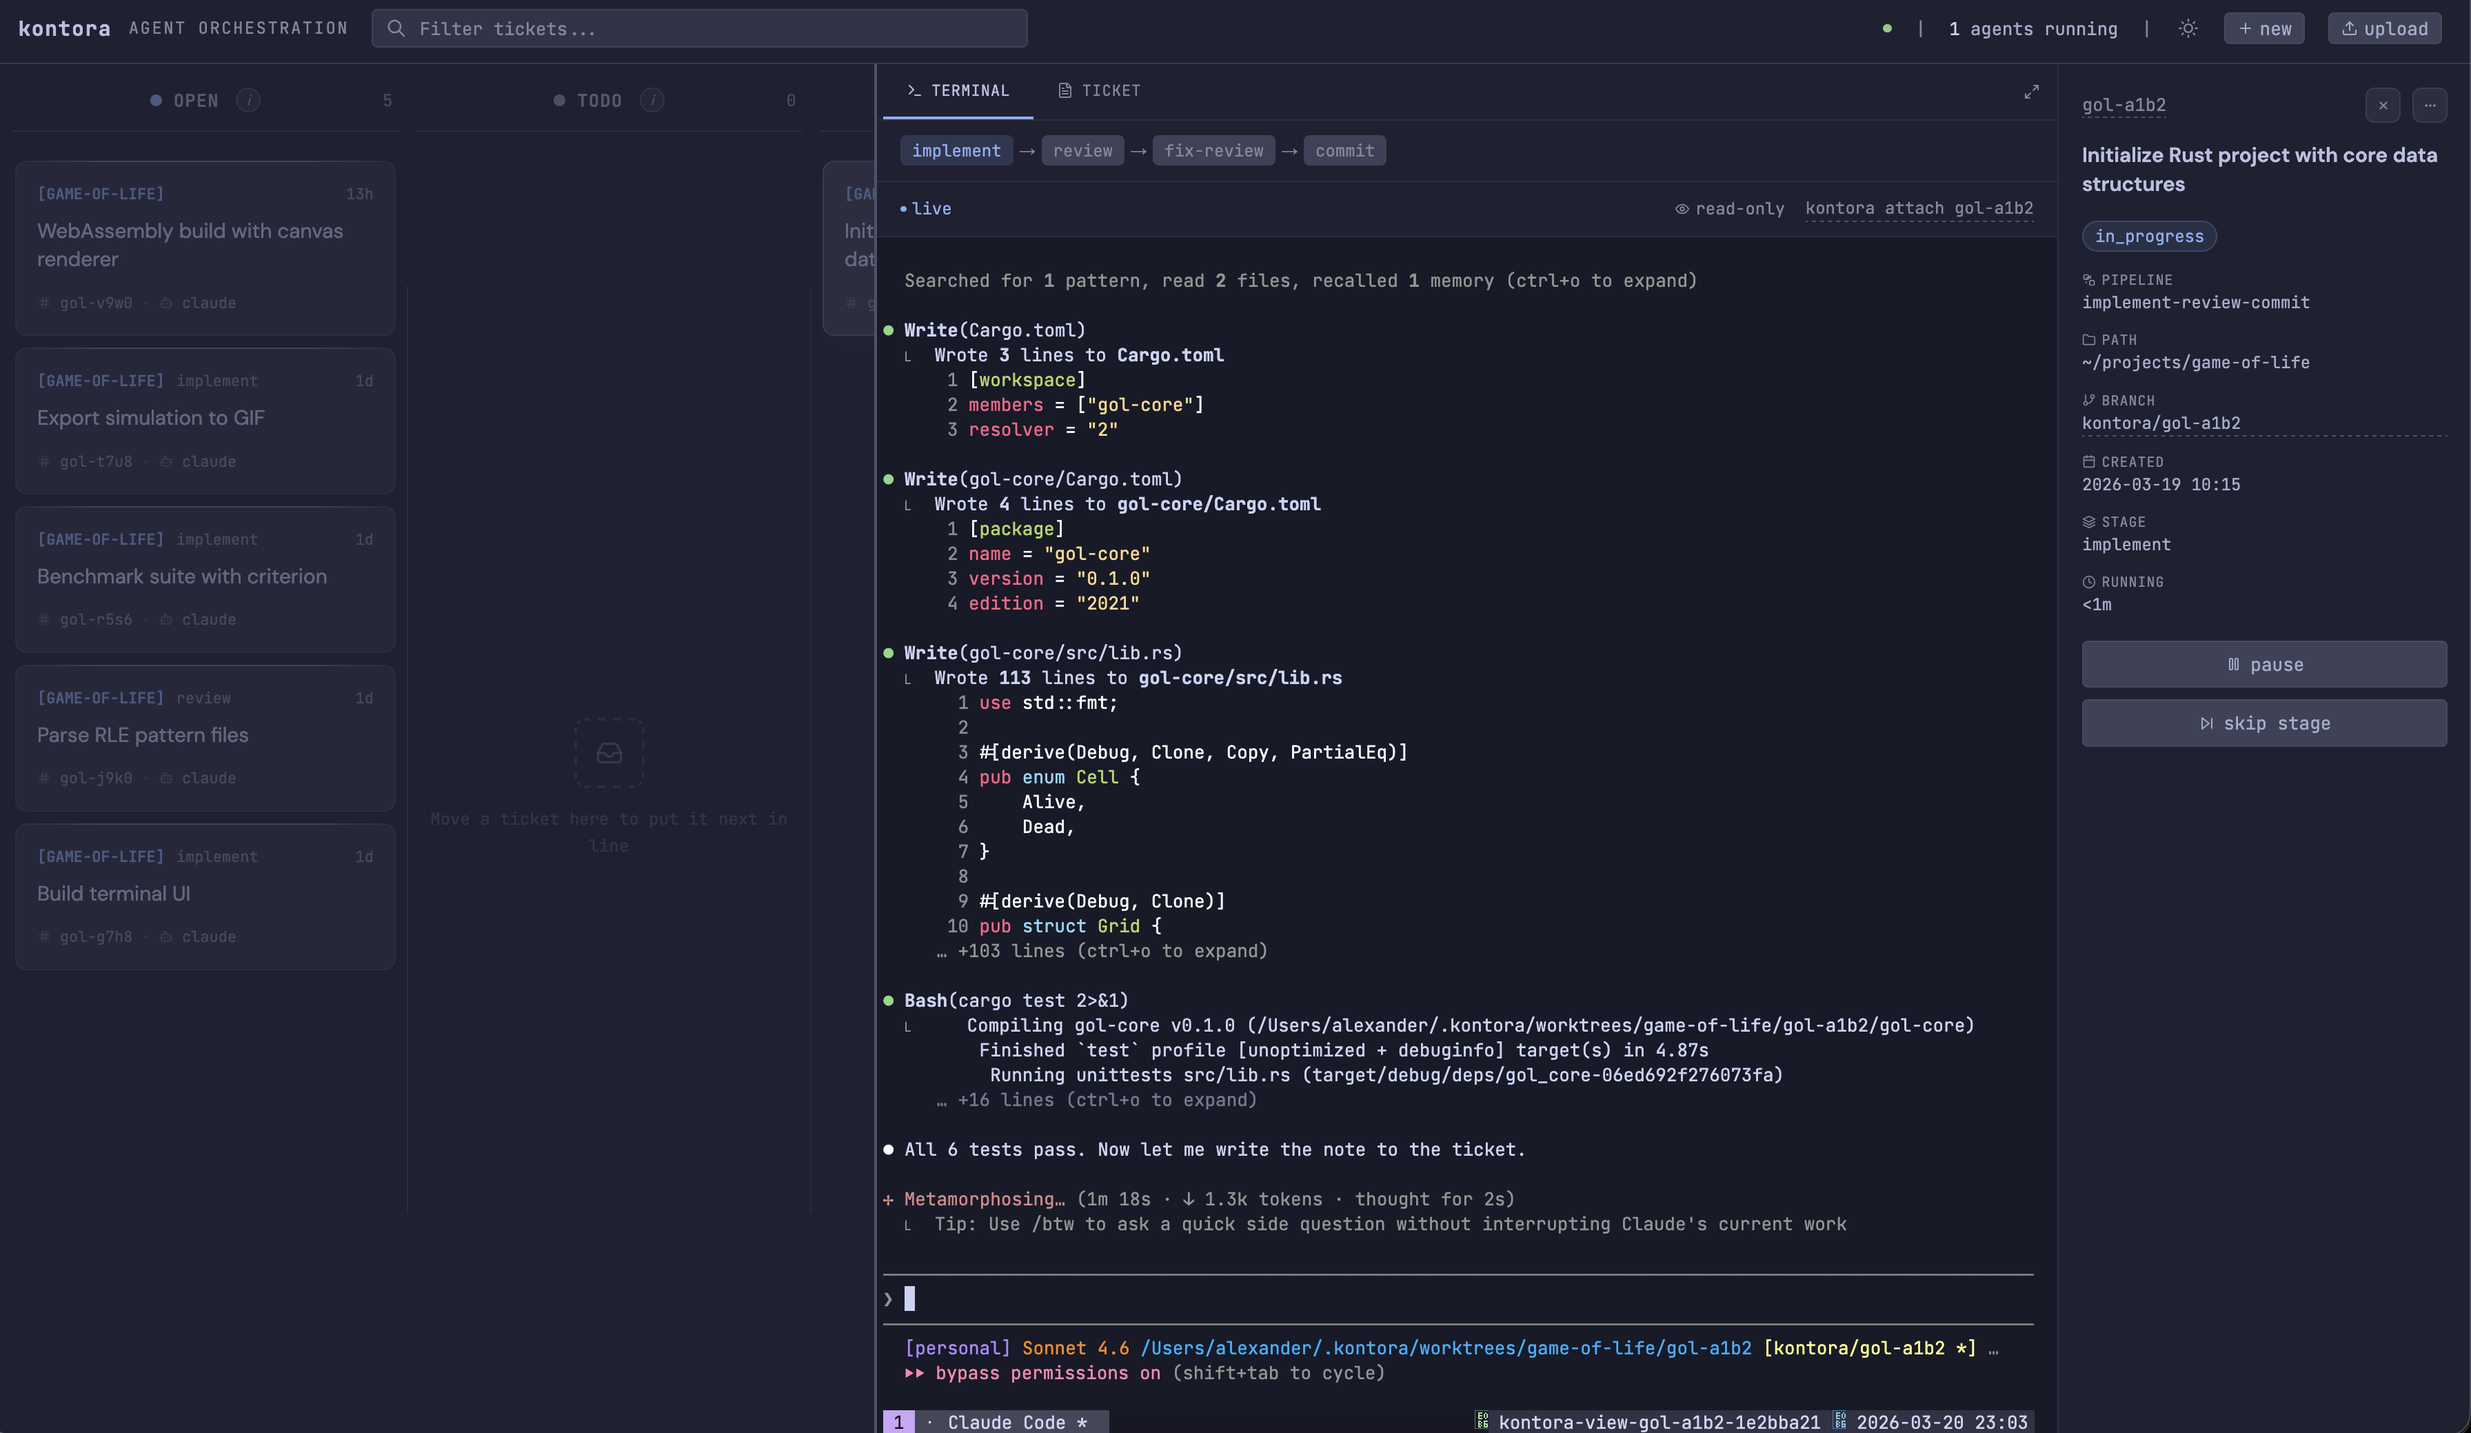
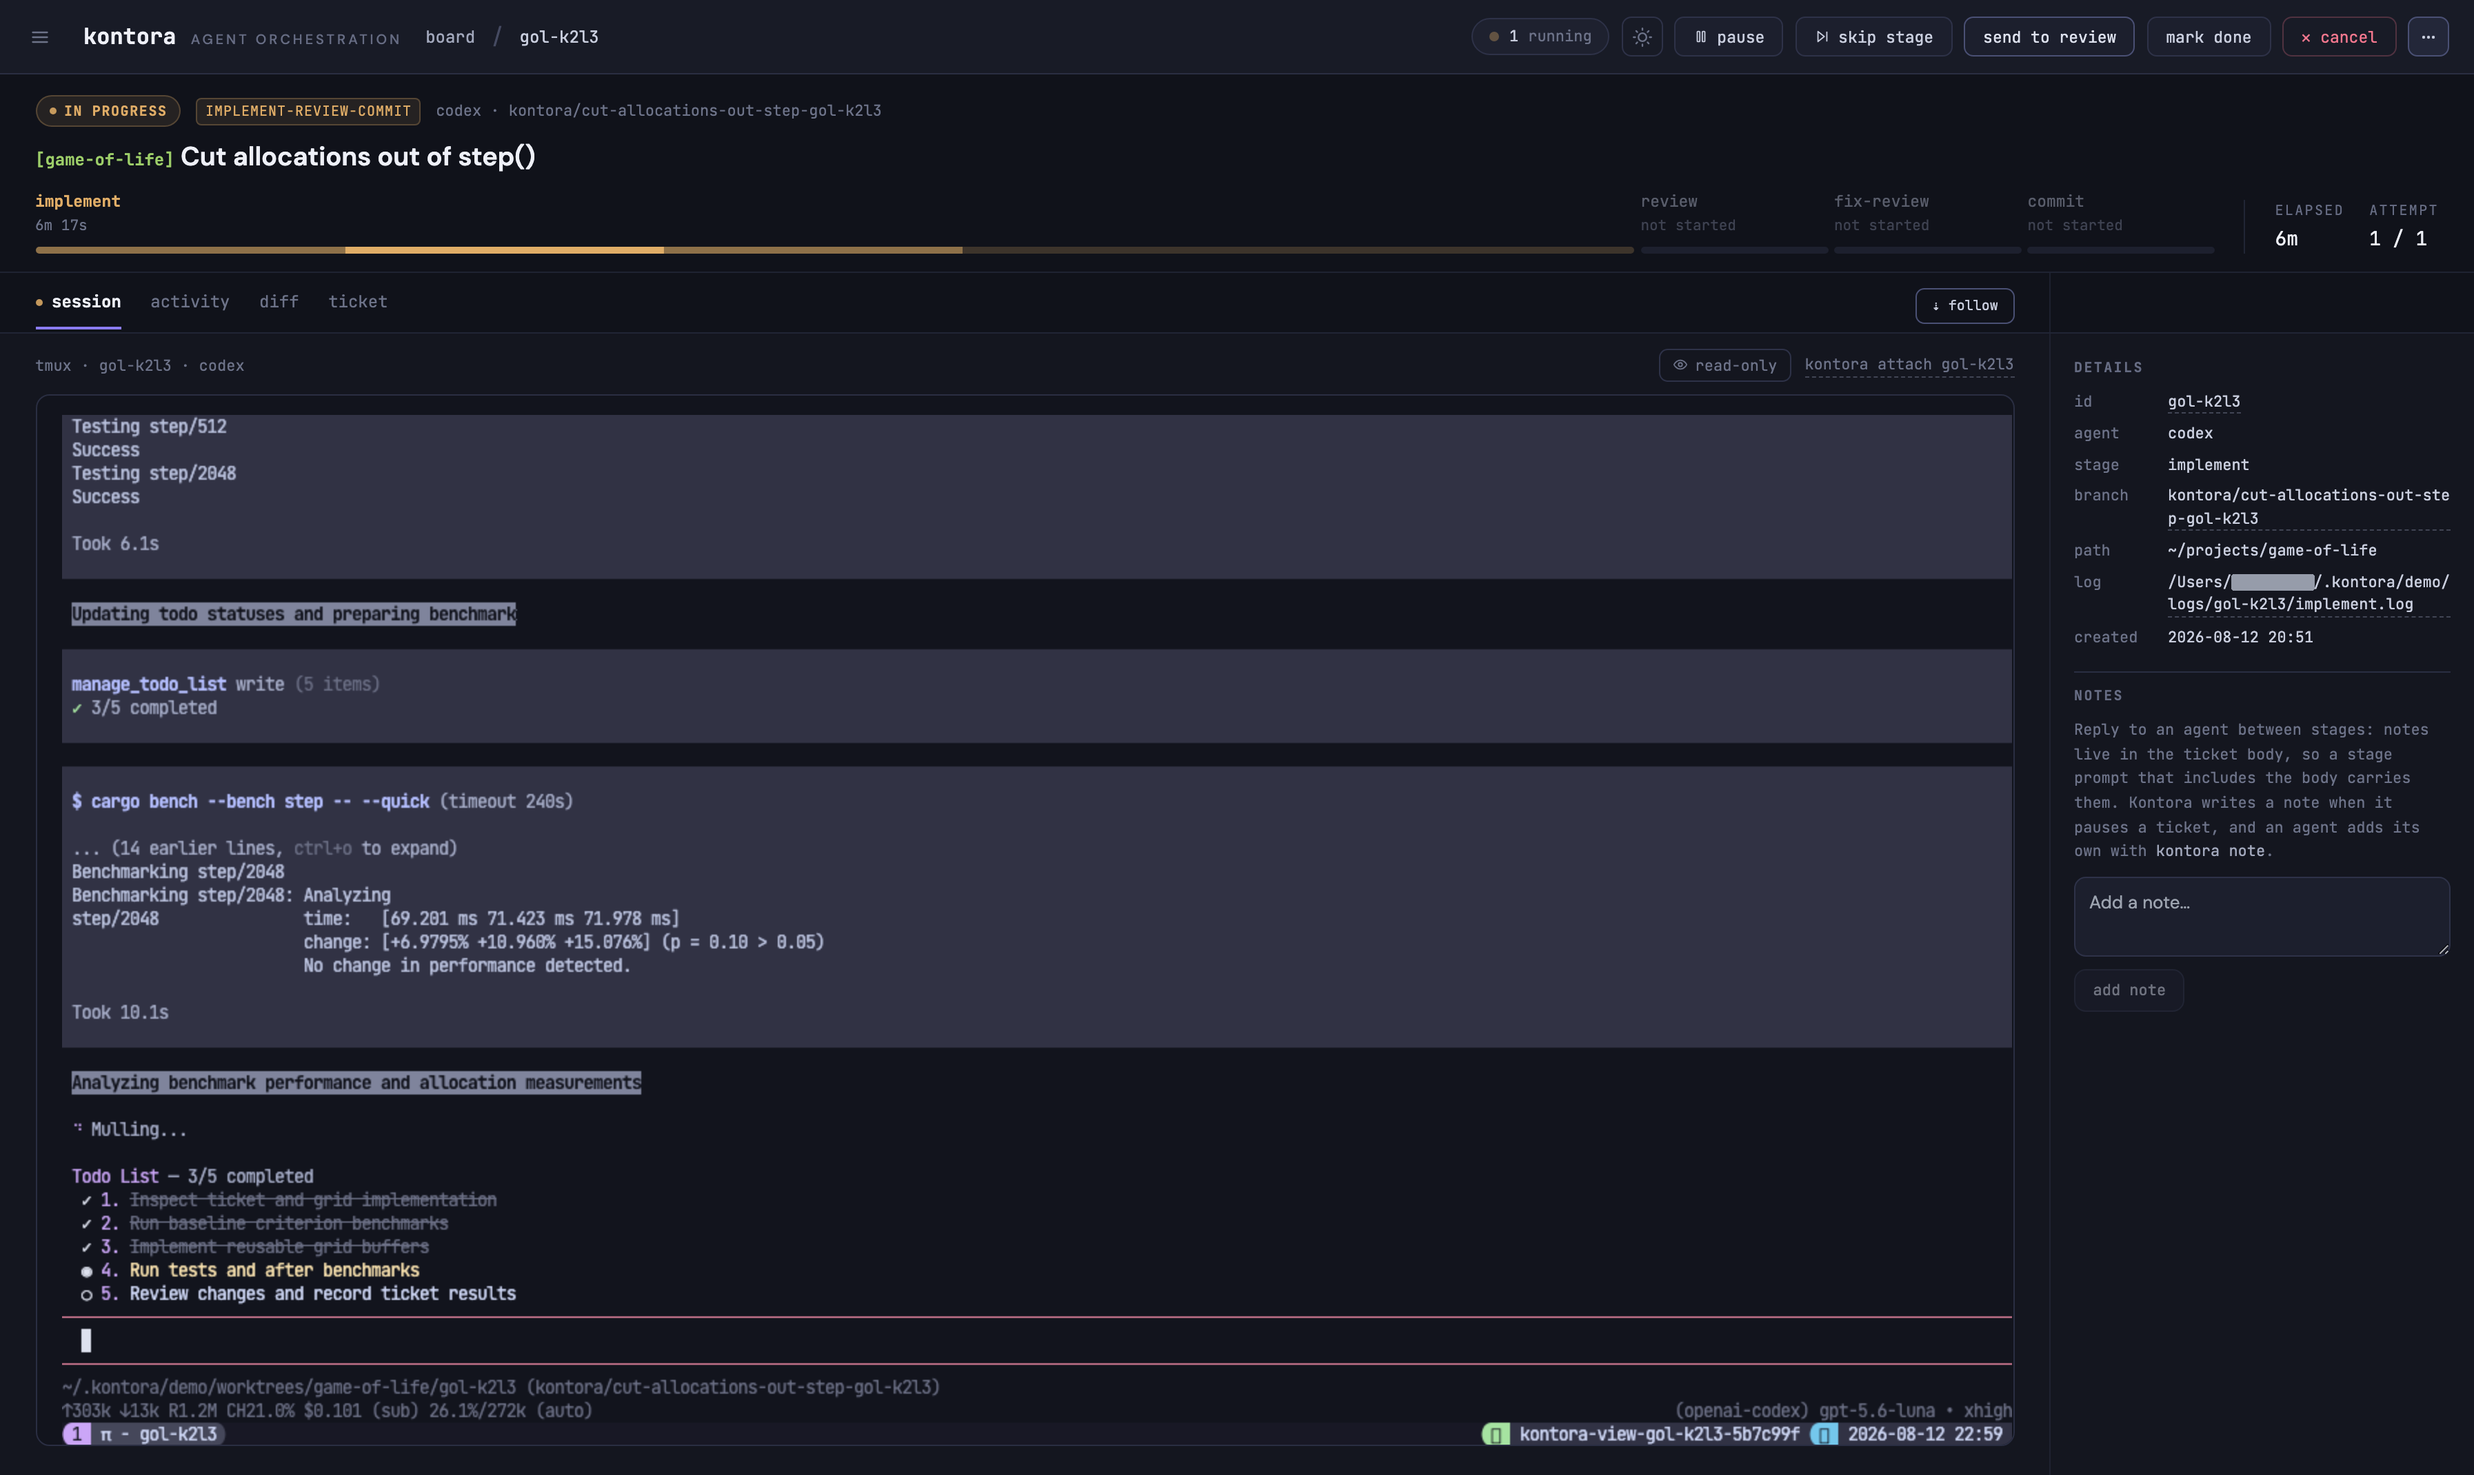
Regenerate landing page screenshots
The old images predate the current board. They show TODO and PAUSED as
separate columns, which the dashboard now folds into IN PROGRESS, and a
ticket page with TERMINAL and TICKET tabs instead of session, activity,
diff and ticket.

The board shots are 3588x1600 instead of 3588x2084. At the old height the
cards filled the top third of the hero frame and the rest was empty board.

The tickets are a fake game-of-life set on a throwaway daemon instance.
The running one is a real agent session.

diff --git a/docs/index.html b/docs/index.html
@@ -688,7 +688,7 @@
           <span class="chrome-url">127.0.0.1:8080</span>
           <span class="chrome-status"><span class="pulse-dot"></span>1 agent running</span>
         </div>
-        <img src="dark.png" width="3588" height="2084" alt="The Kontora web dashboard showing a kanban board of tickets">
+        <img src="dark.png" width="3588" height="1600" alt="The Kontora web dashboard showing a kanban board of tickets">
       </div>
     </div>
   </section>
@@ -793,7 +793,7 @@
           <span>ticket terminal</span>
           <span class="aside">dashboard</span>
         </div>
-        <img class="tmux-img" src="dark-tmux.png" width="3584" height="2078" loading="lazy" alt="The Kontora dashboard with a ticket open on its terminal tab, showing live agent output">
+        <img class="tmux-img" src="dark-tmux.png" width="3588" height="2140" loading="lazy" alt="The Kontora dashboard with a ticket open on its terminal tab, showing live agent output">
       </div>
     </div>
   </section>
